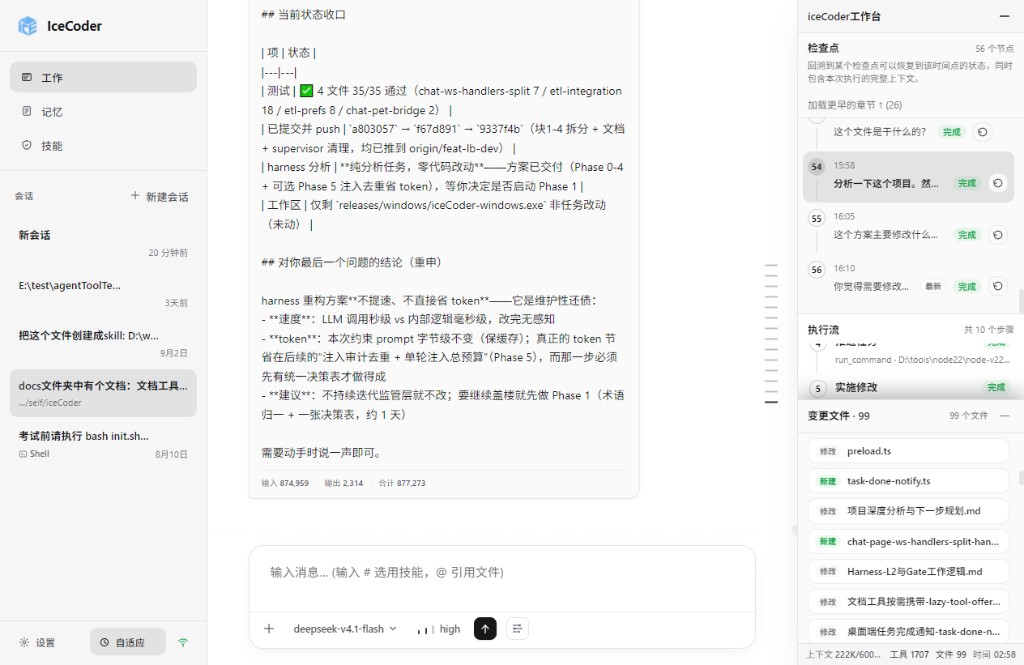
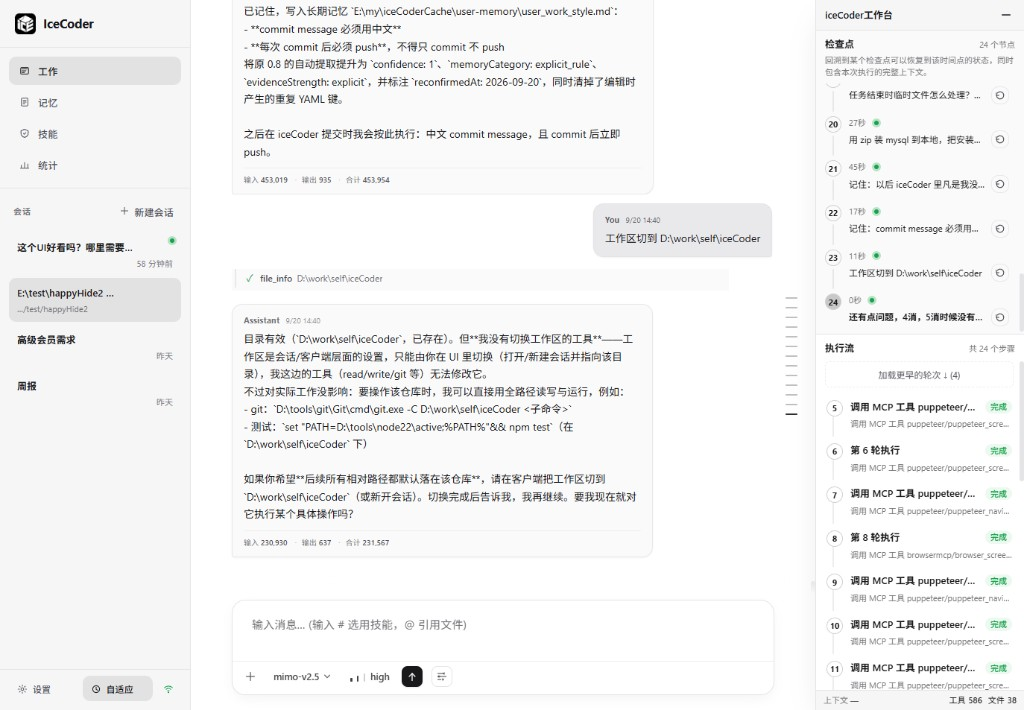
docs: 更新文档

diff --git a/README.zh-CN.md b/README.zh-CN.md
@@ -32,6 +32,12 @@
 
 ![桌面端 — 技能库：列表、正文预览与「使用技能」](./docs/assets/desktop-skills.png)
 
+**统计** — Token 消耗趋势（按会话气泡合计）、记忆读写与监管进出；支持日 / 当周 / 当月：
+
+![桌面端 — 统计：Token、记忆与监管趋势（深色）](./docs/assets/desktop-stats.png)
+
+![桌面端 — 统计（浅色主题）](./docs/assets/desktop-stats-light.png)
+
 **设置 · 通用** — 跳过权限确认、Shell 命令黑名单、执行透明层开关/默认展开/面板宽度等安全与执行选项：
 
 ![桌面端 — 通用设置：安全选项与执行透明层](./docs/assets/desktop-config-general.png)
@@ -44,7 +50,7 @@
 
 ![桌面端 — 设置页 MCP 配置：服务器列表与 unity-mcp 详情](./docs/assets/desktop-config-mcp.png)
 
-**工作 / 聊天（浅色主题）** — 相同工作台布局，底栏展开变更文件层：
+**工作 / 聊天（浅色主题）** — 相同工作台布局（检查点 + 执行流）的浅色外观：
 
 ![桌面端 — 工作聊天页（浅色主题）](./docs/assets/desktop-work-chat-light.png)
 

diff --git a/README.md b/README.md
@@ -32,6 +32,12 @@
 
 ![Desktop — skills library: list, preview, and “Use skill”](./docs/assets/desktop-skills.png)
 
+**Stats** — token usage trend (summed from session bubbles), memory read/write, and supervisor enter/exit; day / week / month ranges:
+
+![Desktop — stats: token, memory, and supervisor trends (dark)](./docs/assets/desktop-stats.png)
+
+![Desktop — stats (light theme)](./docs/assets/desktop-stats-light.png)
+
 **Settings · General** — skip permission prompts, shell command blacklist, execution overlay toggle/default expand/panel width, and other security options:
 
 ![Desktop — general settings: security and execution overlay](./docs/assets/desktop-config-general.png)
@@ -44,7 +50,7 @@
 
 ![Desktop — MCP settings: server list and unity-mcp detail](./docs/assets/desktop-config-mcp.png)
 
-**Work / chat (light theme)** — same workbench layout with the changed-files dock open:
+**Work / chat (light theme)** — same workbench layout (checkpoints + flow) in light appearance:
 
 ![Desktop — work chat (light theme)](./docs/assets/desktop-work-chat-light.png)
 

diff --git a/docs/使用文档.md b/docs/使用文档.md
@@ -23,6 +23,8 @@ iceCoder 是面向本地仓库的 **AI 编程助手运行时**：工具调用 Ha
 | 工作 / 聊天（浅色） | `#/chat` | ![浅色工作聊天](./assets/desktop-work-chat-light.png) |
 | 记忆图谱 | `#/memory` | ![记忆图谱](./assets/desktop-memory-graph.png) |
 | 技能库 | `#/skills` | ![技能库](./assets/desktop-skills.png) |
+| 统计 | `#/stats` | ![统计](./assets/desktop-stats.png) |
+| 统计（浅色） | `#/stats` | ![浅色统计](./assets/desktop-stats-light.png) |
 | 设置 · MCP | `#/config` | ![MCP 配置](./assets/desktop-config-mcp.png) |
 | 手机扫码（`~scan`） | 聊天内命令 | ![远程扫码](./assets/desktop-remote-scan.png) |
 

diff --git a/docs/项目介绍.md b/docs/项目介绍.md
@@ -581,11 +581,15 @@ ICE_CONTEXT_WINDOW
 
 ![空会话欢迎页 — IceCoder 已就绪（浅色）](./assets/desktop-welcome-light.png)
 
-![工作聊天 — 浅色主题，底栏展开变更文件](./assets/desktop-work-chat-light.png)
+![工作聊天 — 浅色主题](./assets/desktop-work-chat-light.png)
 
 ![记忆图谱 — 标签筛选与节点关系图](./assets/desktop-memory-graph.png)
 
 ![技能库 — 列表与 Markdown 预览](./assets/desktop-skills.png)
+
+![统计 — Token、记忆与监管趋势（深色）](./assets/desktop-stats.png)
+
+![统计 — 浅色主题](./assets/desktop-stats-light.png)
 
 ![设置 · MCP 配置](./assets/desktop-config-mcp.png)
 
